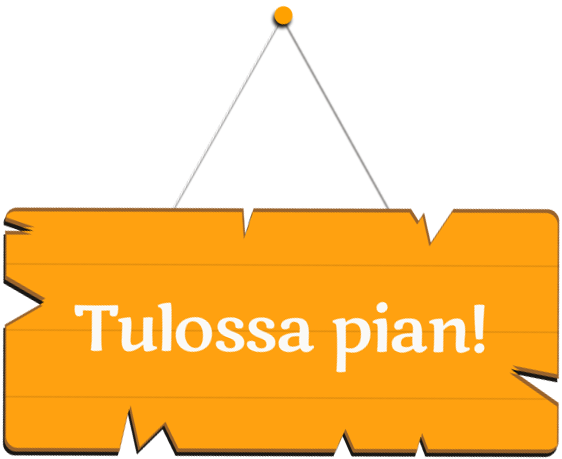
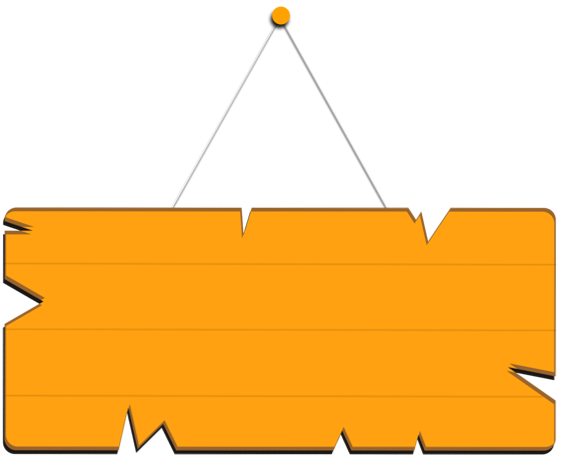
addi18n support, sign text finnish and english, padding correction on mobile

diff --git a/frontend-next-migration/src/preparedPages/ComingPage/ui/ComingPage.tsx b/frontend-next-migration/src/preparedPages/ComingPage/ui/ComingPage.tsx
@@ -2,6 +2,7 @@
 import cls from './ComingPage.module.scss';
 import Image from 'next/image';
 import { Glass } from '@/shared/ui/Glass';
+import { useClientTranslation } from '@/shared/i18n';
 import titleFogImg from '@/shared/assets/images/titlefog.png';
 import titleFogSmallImg from '@/shared/assets/images/titlefogsmall.png';
 import comingSoonSign from '@/shared/assets/images/Coming-soon-sign.png';
@@ -24,6 +25,7 @@ export type Props = {
 /** the "coming soon" page. curved title with fog, a sign, and characters*/
 const ComingPage = (props: Props) => {
     const { title, lng } = props;
+    const { t } = useClientTranslation('coming');
     const isFinnish = lng === 'fi';
     const { isMobileSize } = useIsMobileSize();
 
@@ -87,6 +89,7 @@ const ComingPage = (props: Props) => {
                             width={700}
                             height={617}
                         />
+                        <span className={cls.signText}>{t('signTitle')}</span>
                     </div>
                     <div className={cls.images}>
                         <Image

diff --git a/frontend-next-migration/src/preparedPages/ComingPage/ui/ComingPage.module.scss b/frontend-next-migration/src/preparedPages/ComingPage/ui/ComingPage.module.scss
@@ -63,15 +63,31 @@
 .signWrapper {
     display: flex;
     justify-content: center;
+    position: relative;
     width: 50%;
     max-width: 554px;
+    transform-origin: top center;
+    animation: swing 2.5s ease-in-out;
+    container-type: inline-size;
 }
 
 .signWrapper img {
     width: 100%;
     height: auto;
-    transform-origin: top center;
-    animation: swing 2.5s ease-in-out;
+}
+
+.signText {
+    position: absolute;
+    top: 70%;
+    left: 50%;
+    transform: translate(-50%, -50%);
+    font-family: var(--font-family-title);
+    font-size: clamp(20px, 11cqi, 64px);
+    color: var(--white);
+    text-align: center;
+    white-space: nowrap;
+    pointer-events: none;
+    z-index: 1;
 }
 
 .images {
@@ -118,7 +134,7 @@
     }
     .images {
         transform: scale(0.4);
-        margin-bottom: -96px;
+        margin-bottom: -62px;
     }
     .bodySection {
         gap: 0px;
